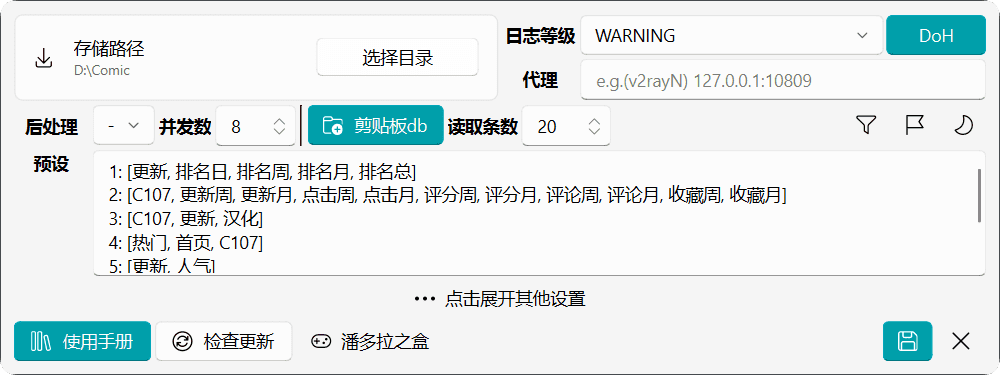
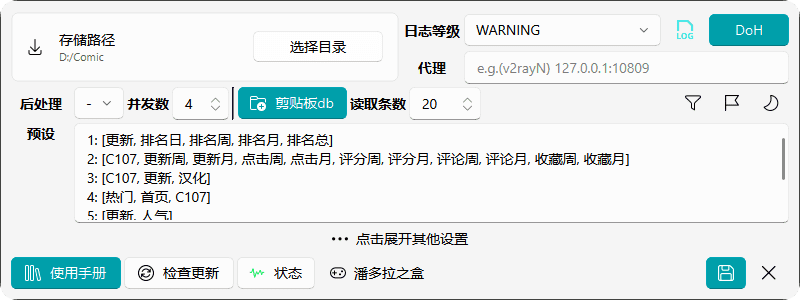
upd: docs

diff --git a/docs/.vitepress/config.ts b/docs/.vitepress/config.ts
@@ -165,7 +165,7 @@ export default defineConfig({
                 text: "更新",
                 items: [
                     {
-                        text: "更新历史",
+                        text: "🕑更新历史",
                         link: "/changelog/history",
                     }
                 ],

diff --git a/docs/changelog/history.md b/docs/changelog/history.md
@@ -1,14 +1,13 @@
 # 🕑 更新历史
 
-## `v2.10.0-beta.3`
+## `v2.10.0`
 
 ### 🎁 Features
 
-+ ✨新增 Cbg(CornerBackground) 功能，入口为 rvTool 新增按钮，与 CGS 里常见的各种立绘资源相关，[详情看文档](https://cgs.101114105.xyz/script/#_3-cbg-cornerbackground)
-+ [danbooru](https://img-cgs.101114105.xyz/file/cgs/1774207508440_danbooru.mkv) 入口为站点选 Script , 同样需要[前置准备](https://cgs.101114105.xyz/script/)
-  - ✨danbooru 收藏 tag 管理面板，搜索框右键菜单配合使用
-  - ✨瀑布流右键菜单增加`清除此页前图片`，优化加载用
-+ 增设 站点状态 页面，上报入口在 配置窗口 的 状态 按钮
++ 新增 Cbg(CornerBackground) 功能，入口为 rvTool 新增按钮，与 CGS 里常见的各种立绘资源相关，[详情看文档](https://cgs.101114105.xyz/script/#_3-cbg-cornerbackground)
++ Danbooru(Script): 入口为站点选 Script , 同样需要[前置准备](https://cgs.101114105.xyz/script/)
+  - 功能：收藏 tag 管理，输入菜单，预览viewer按键 等等，前往[danbooru 文档页](https://cgs.101114105.xyz/script/danbooru)查看
++ CGS-docs 增设 站点状态 页面，上报入口在 配置窗口 的 状态 按钮
 + 交互与下载分离，优化交互：
   - 翻页保留拆解为翻页前自动提交
   - 内置重启语义改为重置搜索, 重置前可以一直提交任务, 已提交任务也与重置无关继续进行
@@ -30,6 +29,7 @@
 + wnacg 设置代理被视为图源也走代理，仅 miss 不删域名缓存
 + jm 修复 beta 版的车号流
 + hcomic 补回首页入口，已设预设的加关键词`更新`
++ 修复封面加载完成前下载、翻页等操作被锁定的情况
 + 修复空结果提示，内置浏览器空页问题
 + 任务面板滚动区域高度被裁修复
 + 站点选择的 kemono 改为 Script

diff --git a/docs/config/index.md b/docs/config/index.md
@@ -2,8 +2,10 @@
 
 ![conf](../assets/img/config/conf_usage.png)
 
+::: tip **搜索生命周期** （CGS 的一个概念，牢记），自`选择站点`而起，至`重置搜索`而结束  
+配置相关生效时间节点查阅 [📒2-配置生效相关](../faq/extra.md#_2-配置生效相关)  
+:::
 ::: info 配置文件为初始使用后产生的 `conf.yml` （[📒3-配置系文件路径](/faq/extra.html#_3-%E9%85%8D%E7%BD%AE%E7%B3%BB%E6%96%87%E4%BB%B6%E8%B7%AF%E5%BE%84)）  
-有关生效时间节点请查阅 [📒2-配置生效相关](../faq/extra.md#_2-配置生效相关)  
 :::
 ::: warning 多行的编辑框输入为 `yaml` 格式（除了 cookies ），冒号后要加一个⚠ `空格` ⚠  
 :::
@@ -21,7 +23,7 @@
 ### 日志等级 / `log_level`
 
 后台运行过后会有 log 目录，GUI 与 后台 同级，报错时 GUI 会进行操作指引  
-**附带日志目录打开按钮**
+New: **附带日志目录打开按钮**
 
 ### Doh (Dns over Https)
 
@@ -32,7 +34,7 @@
 翻墙用  
 > [!Warning] ⚠ 已设置 jm 无论用全局还是怎样都只走本地原生ip  
 
-> [!Info] 建议使用代理模式在此配置代理，而非全局代理模式，不然访问图源会吃走大量代理的流量
+> [!Info] 一个生命周期将会`重置搜索`后结束，代理更改只有在该生命
 
 ---
 
@@ -165,4 +167,4 @@ rV(redViewer) 绑定的启动程序，用于启动 rV
 
 默认值：  
 会递归搜索该目录下所有 png 格式图片，然后随机抽一张设成对话框的背景  
-注：透明背景效果最佳
+注：尝试使用 [Cbg](/script/#_3-cbg-cornerbackground) 结合 [提供资源](https://app.unifans.io/c/jsoneri) 使用

diff --git a/docs/feat/index.md b/docs/feat/index.md
@@ -20,7 +20,7 @@
 | 搜索框预设 | 搜索框区域按 `空格` 或右键点`展开预设`即可弹出预设项 （序号输入框同理）<br>主界面选中文本右键可快速加进预设 |
 | 翻页按钮组 | 当列表结果出来后开启使用 |
 | 读剪贴板 | ![clipBtn](../assets/img/feat/clipBtn.png)[📋跳转阅读 > 使用](/feat/clip) |
-| 内置重启 | ![rebootBtn](../assets/img/feat/reboot.png)选择网站后开启使用   |
+| 重置搜索 | ![rebootBtn](../assets/img/feat/reboot.png)选择站点后开启使用   |
 
 ## 2. 预览/内置浏览器
 
@@ -59,7 +59,7 @@
     <tr><td style="text-align: left;"><strong>rv相关</strong>: 下载&emsp;/&emsp;(右下)绑定<code>锚点</code>与运行&emsp;/&emsp;(左下)清除<code>锚点</code></td></tr>
     <tr>
       <td style="text-align: left;"><strong>以图搜索</strong>: 借用 saucenao，按 CGS 内指示操作即可<br>ps: 搜索后按图示转 ascii2d 有奇效</td></tr>
-    <tr><td style="text-align: left;"><strong>Cbg按钮</strong>: <a href="/script/#_3-cbg-cornerbackground">Cbg入口</a></td></tr>
+    <tr><td style="text-align: left;"><strong>橙色Cbg按钮</strong>: <a href="/script/#_3-cbg-cornerbackground">Cbg入口</a></td></tr>
     <tr>
       <td style="text-align: center;">CGSMid<br><small>midTool</small></td>
       <td style="text-align: left;"><a href="/feat/mid">🀄跳转阅读 > 使用</a></td>

diff --git a/docs/faq/extra.md b/docs/faq/extra.md
@@ -14,14 +14,17 @@
 
 ## 2. 配置生效相关
 
+::: tip **搜索生命周期** （CGS 的一个概念，牢记），自`选择站点`而起，至`重置搜索`而结束  
+:::
+
 | 保存生效时机 | 配置项 |
 | :---: | :---: |
-| 即时生效 | 预设/剪贴板相关/日夜模式 (等等 gui 相关) |
-| 重置搜索生效 | 绝大部分 |
+| 即时生效 | 预设/剪贴板配置/日夜模式 (等等 gui 相关) |
+| 下一个搜索生命周期 | 绝大部分 |
 
-::: tip 选择网站后会`开启后台进程`：当`选择网站前`保存，`重置搜索生效` 的配置项等同于 `即时生效`
-重置搜索仍不生效可尝试关掉 CGS 再启动  
-特殊：语言切换必需关掉重启 CGS 方可生效
+::: tip 特殊：
+1. 语言切换必需关掉重启 CGS 方可生效
+2. 搜索生命周期更换仍不生效可尝试关掉 CGS 再启动  
 :::
 
 ## 3. 配置系文件路径

diff --git a/docs/script/danbooru.md b/docs/script/danbooru.md
@@ -1,5 +1,8 @@
 # Danbooru
 
+::: warning **需已读 [⚠ 通用前置须知](/script/)**
+:::
+
 ## 视频演示常规操作
 
 <div align="left">
@@ -24,14 +27,16 @@
 可提前利用 ctrl/shift 将已分组 tags 批量 `左移` 回默认区
 :::
 
-### 瀑布流网格区域操作
+### 主界面
+
+#### 瀑布流网格区域操作
 
 | 操作 | 说明 |
 |------|------|
 | 鼠标中键 | 关闭当前 tab 页 |
 | 右键菜单-清除此页前图片 | 有利于浏览长页数 tag，释放缓存优化性能 |
 
-### 预览页 viewer 操作
+### 预览页 viewer
 
 | 键盘按键 | 功能 |
 |------|------|

diff --git a/docs/index.md b/docs/index.md
@@ -56,7 +56,7 @@ hero:
       </a></div></td>
   </tr>
   <tr>
-    <td colspan="7"><a href="/deploy/monitor/">站点状态</a></td>
+    <td colspan="7" style="width:100%;height:100%;text-align:center;vertical-align:middle;"><a href="/deploy/monitor/">站点状态</a></td>
   </tr>
 </tbody></table>
 
